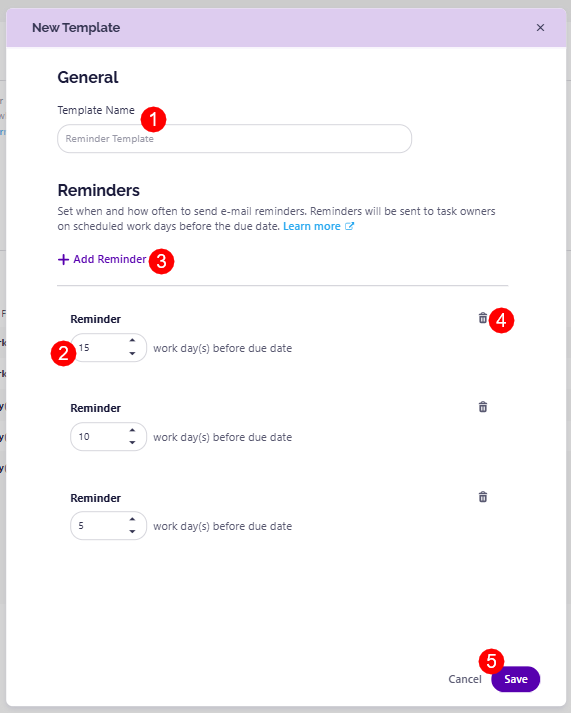
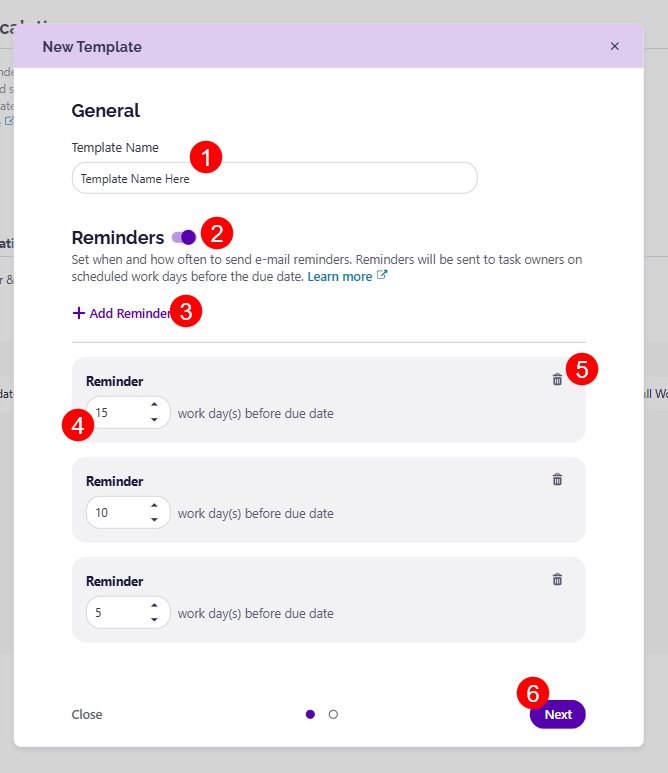
images

diff --git a/docs/governance-and-automation/workspace-review/reminders.md b/docs/governance-and-automation/workspace-review/reminders.md
@@ -16,9 +16,9 @@ With Reminders, you can create multiple reminder templates that automatically se
 
 ## Create Reminder Template
 
-To create your Reminder Templates, go to **Settings > Governance > Reminders (1)**. Here, you are able to:
+To create your Reminder Templates, go to **Settings > Governance > Reminders & Escalations (1)**. Here, you are able to:
 * Create a **New Template (2)**
-* View your **current reminder templates (3)** if there are any
+* View your **current templates (3)** if there are any
 
 ![Reminders - Template](../../../static/img/reminders-template.png)
 
@@ -28,9 +28,11 @@ Clicking New Template, opens the **New Template dialog** screen where you can:
 * If you want multiple reminders, click the **Add Reminder (3)** button, which adds another Reminder box where you can enter the number of days.
   * This can be useful if you want to ensure multiple reminders for a policy are sent. For example, 15 work days before the due date, 10 work days before the due date, and 5 work days before the due date
 * Use the **delete (4)** icon to remove a reminder if you change your mind
-* Click **Save (5)** once you are done to store your template
+* Click **next (6)**, and then **Save (5)** once you are done to store your template
 
 ![Reminders - Template - Create New](../../../static/img/reminders-template-new.png)
+
+![Reminders - Template - Create New](../../../static/img/reminders-template-new-1.png)
 
 
 ## Apply Reminder Template

diff --git a/docs/governance-and-automation/workspace-review/escalations.md b/docs/governance-and-automation/workspace-review/escalations.md
@@ -46,7 +46,11 @@ Clicking New Template, opens the **New Template dialog** screen where you can:
   * An Escalation can be edited only when a Workspace Review with that escalation is not active, if a workspace review is active, the escalation cannot be edited
 * Click **Save (9)** once you are done to store your template
 
-![Reminders - Template - Create New](../../../static/img/reminders-template-new.png)
+![Escalations - Template - Create New](../../../static/img/escalations-template-new.png)
+
+![Escalations - Template - Create New](../../../static/img/escalations-template-new-1.png)
+
+![Escalations - Template - Create New](../../../static/img/escalations-template-new-2.png)
 
 :::warning
 
